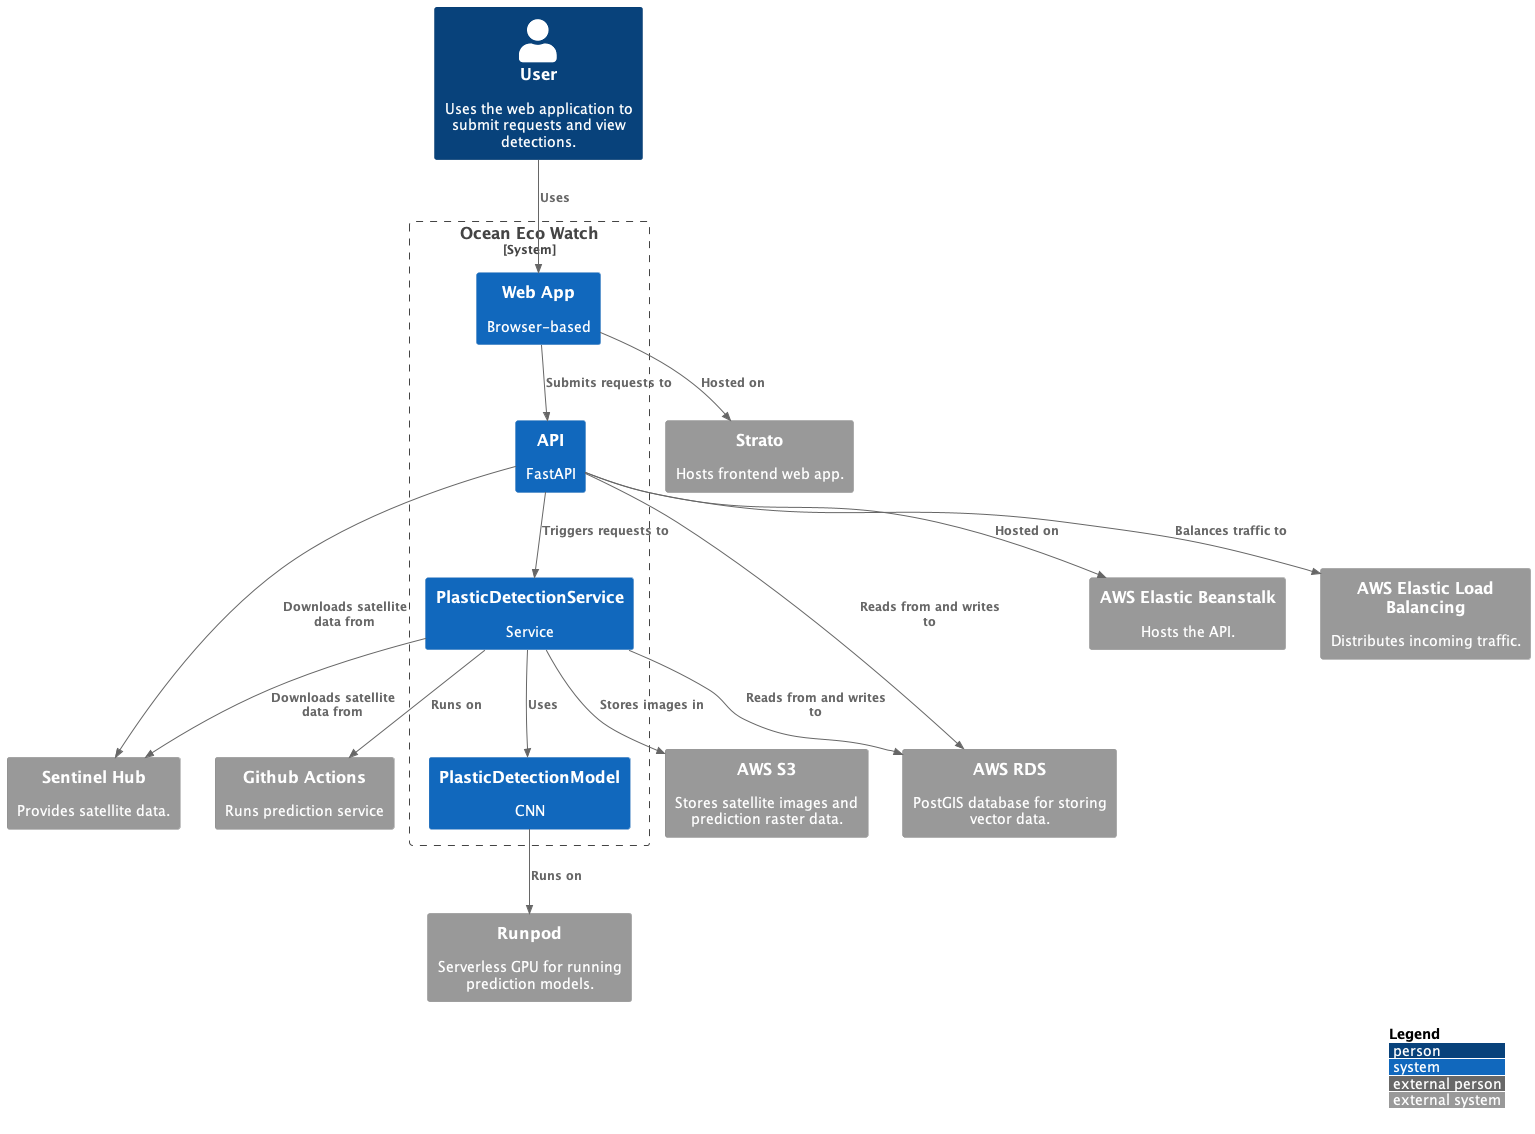
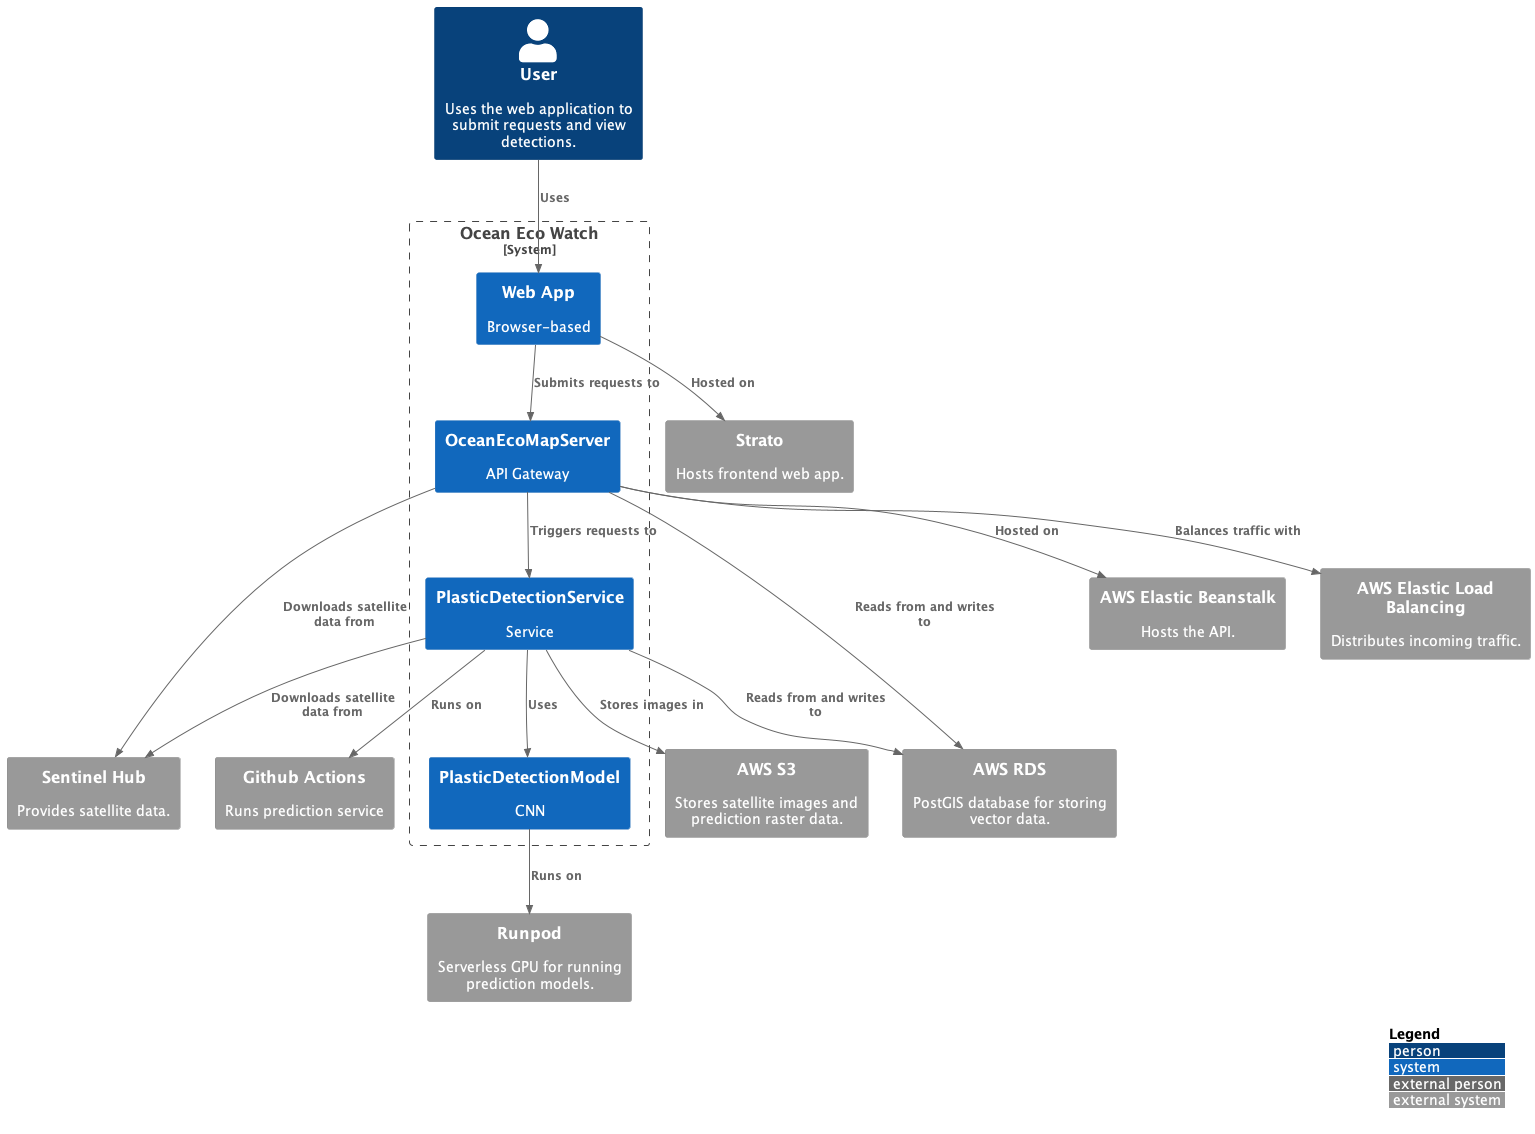
edit diagrams

Changed region(s): [[0.2756, 0.3086, 0.5511, 0.4938], [0.398, 0.3086, 0.4899, 0.3704], [0.5511, 0.5247, 0.643, 0.5556]]

diff --git a/docs/software_design_documentation.md b/docs/software_design_documentation.md
@@ -22,7 +22,7 @@ The use cases are:
 
 Not implemented yet:
 
-- Users cam view available areas for prediction
+- Users can view available areas for prediction
 - Users can filter the predictions by timestamp, cloud cover, and prediction probability
 - Users can request a prediction for a specific area and timestamp
 
@@ -55,7 +55,7 @@ This is a early stage project so the following quality attributes are most impor
 
 ## Architectural Style and Patterns
 
-The whole system is designed as a serverless, service-based architecture. We currently only have two services, the PlasticDetectionService and the PlasticDetectionModel. They are loosely-coupled and can easily be interchanged. The OceanEcoMapServer acts as a API gateway between the PlasticDetectionService and the frontend web mapping application. All components are containerized and deployed on AWS as serverless containers. This allows for easy scaling, updating, and deployment. The services read and write to the same database, therefore this is a service-based architecture and not a microservices architecture.
+The whole system is designed as a serverless, service-based architecture. We currently only have two services, the PlasticDetectionService and the PlasticDetectionModel. They are loosely-coupled and can easily be interchanged. The OceanEcoMapServer acts as a API gateway between the PlasticDetectionService and the frontend web mapping application. All components are containerized and deployed on AWS as serverless containers. This allows for easy scaling, updating, and deployment. The services read and write to the same database, therefore this is a service-based architecture and not a microservices architecture. Architectures that were considered as well are the modular monolith for its simplicity and the microkernel architecture for its flexibility and cost-effectiveness. Both options are not easily scalable and deployable as the serverless architecture, therefore the service-based architecture was chosen. A microservices architecture was also not a good fit at this stage due to the high costs and complexity.
 
 ## C4 Diagrams:
 
